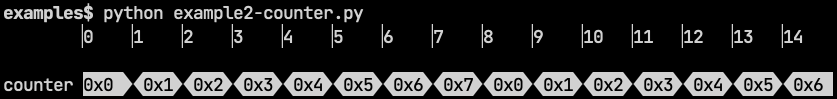
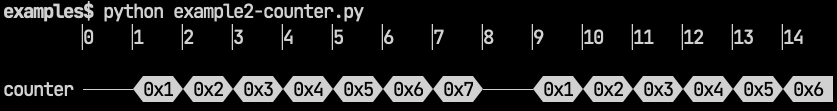
`render_trace`: Display multi-wire zeroes as centered horizontal lines.
Zero is the default value for registers, memories, and conditional assignment,
so it is frequently an uninteresting value. Displaying zero as a centered
horizontal line, rather than '0x0', removes a lot of visual noise from traces.

See the updated screenshots for examples.

diff --git a/pyrtl/simulation.py b/pyrtl/simulation.py
@@ -1072,6 +1072,16 @@ class WaveRenderer(object):
         render transitions.
         """
         if len(w) > 1 or w.name in repr_per_name:
+            # Render values in boxes for multi-bit wires ("bus"), or single-bit
+            # wires with a specific representation.
+            #
+            # We display multi-wire zero values as a centered horizontal line
+            # when a specific `repr_per_name` is not requested for this trace,
+            # and a standard numeric format is requested.
+            flat_zero = (w.name not in repr_per_name
+                         and (repr_func is hex or repr_func is oct
+                              or repr_func is int or repr_func is str
+                              or repr_func is bin))
             if prev_line:
                 # Bus wires are currently never rendered across multiple lines.
                 return ''
@@ -1079,13 +1089,33 @@ class WaveRenderer(object):
             out = ''
             if current_val != prior_val:
                 if prior_val is not None:
-                    out += self.constants._x
-                out += (self.val_to_str(current_val, w.name, repr_func,
-                                        repr_per_name).rstrip('L')
-                        .ljust(symbol_len)[:symbol_len])
+                    if flat_zero and prior_val == 0:
+                        # Value changed from zero to non-zero.
+                        out += self.constants._zero_x
+                    elif flat_zero and current_val == 0:
+                        # Value changed from non-zero to zero.
+                        out += self.constants._x_zero
+                    else:
+                        # Value changed from non-zero to non-zero.
+                        out += self.constants._x
+                if flat_zero and current_val == 0:
+                    # Display the current zero value.
+                    out += self.constants._zero * symbol_len
+                else:
+                    if prior_val is None:
+                        out += self.constants._bus_start
+                    # Display the current non-zero value.
+                    out += (self.val_to_str(current_val, w.name, repr_func,
+                                            repr_per_name).rstrip('L')
+                            .ljust(symbol_len)[:symbol_len])
+            elif flat_zero and current_val == 0:
+                # Extend an unchanged zero value into the current cycle.
+                out += self.constants._zero * cycle_len
             else:
+                # Extend an unchanged non-zero value into the current cycle.
                 out += ' ' * cycle_len
         else:
+            # Render lines for single-bit wires.
             if prev_line:
                 low = self.constants._prev_line_low
                 high = self.constants._prev_line_high
@@ -1147,13 +1177,29 @@ class RendererConstants():
     # rendering a bus wire. _bus_start and _bus_stop must have zero display
     # length characters. Escape codes never count towards display length.
     _bus_start, _bus_stop = '', ''
-    # Print _x when a bus wire changes value. _low must have display length
-    # of _chars_between_cycles characters.
+
+    # Print _x when a bus wire changes from one non-zero value to another
+    # non-zero value. _x must have display length of _chars_between_cycles
+    # characters.
     _x = ''
 
+    # Print _zero_x when a bus wire changes from a zero value to a non-zero
+    # value. _zero_x must have display length of _chars_between_cycles
+    # characters.
+    _zero_x = ''
+
+    # Print _x_zero when a bus wire changes from a non-zero value to a zero
+    # value. _x_zero must have display length of _chars_between_cycles
+    # characters.
+    _x_zero = ''
+
+    # Print _zero when a bus wire maintains a zero value. _zero must have
+    # display length of 1 character.
+    _zero = ''
+
     # Number of characters between cycles. The cycle changes halfway between
-    # this width. The first half of this width belongs to the previous cycle and
-    # the second half of this width belongs to the next cycle.
+    # this width. The first half of this width belongs to the previous cycle
+    # and the second half of this width belongs to the next cycle.
     _chars_between_cycles = 0
 
 
@@ -1169,7 +1215,7 @@ class Utf8RendererConstants(RendererConstants):
     Enable this renderer by default by setting the ``PYRTL_RENDERER``
     environment variable to ``utf-8``.
 
-    .. image:: ../docs/screenshots/pyrtl-statemachine-utf-8.png
+    .. image:: ../docs/screenshots/pyrtl-renderer-demo-utf-8.png
 
     """
     # Start reverse-video, reset all attributes
@@ -1184,6 +1230,9 @@ class Utf8RendererConstants(RendererConstants):
     _prev_line_low, _prev_line_high = ' ', '▁'
 
     _x = '▕ '
+    _zero_x = '─' + _bus_start + '▏'
+    _x_zero = '▕' + _bus_stop + '─'
+    _zero = '─'
 
     # Number of characters needed between cycles. The cycle changes halfway
     # between this width (2), so the first character belongs to the previous
@@ -1198,13 +1247,13 @@ class Utf8AltRendererConstants(RendererConstants):
     falling edges. Multi-bit WireVector values are rendered in reverse-video
     rectangles.
 
-    Compared to Utf8RendererConstants, this renderer is more compact because it
-    uses one character between cycles instead of two.
+    Compared to :py:class:`Utf8RendererConstants`, this renderer is more
+    compact because it uses one character between cycles instead of two.
 
     Enable this renderer by default by setting the ``PYRTL_RENDERER``
     environment variable to ``utf-8-alt``.
 
-    .. image:: ../docs/screenshots/pyrtl-statemachine-utf-8-alt.png
+    .. image:: ../docs/screenshots/pyrtl-renderer-demo-utf-8-alt.png
 
     """
     # Start reverse-video, reset all attributes
@@ -1215,7 +1264,10 @@ class Utf8AltRendererConstants(RendererConstants):
     _up, _down = '╱', '╲'
     _low, _high = '▁', '▔'
 
-    _x = '┃'
+    _x = _bus_stop + ' ' + _bus_start
+    _zero_x = ' ' + _bus_start
+    _x_zero = _bus_stop + ' '
+    _zero = '─'
 
     # Number of characters needed between cycles. The cycle changes halfway
     # between this width (1), so the first character belongs to the previous
@@ -1237,13 +1289,16 @@ class PowerlineRendererConstants(Utf8RendererConstants):
     Enable this renderer by default by setting the ``PYRTL_RENDERER``
     environment variable to ``powerline``.
 
-    .. image:: ../docs/screenshots/pyrtl-statemachine.png
+    .. image:: ../docs/screenshots/pyrtl-renderer-demo-powerline.png
 
     """
     # Start reverse-video, reset all attributes
     _bus_start, _bus_stop = '\x1B[7m', '\x1B[0m'
 
     _x = _bus_stop + '' + _bus_start
+    _zero_x = '─' + _bus_start
+    _x_zero = _bus_stop + '─'
+    _zero = '─'
 
 
 class Cp437RendererConstants(RendererConstants):
@@ -1256,14 +1311,14 @@ class Cp437RendererConstants(RendererConstants):
     `Code page 437 <https://en.wikipedia.org/wiki/Code_page_437>`_ is also
     known as 8-bit ASCII. This is the default renderer on Windows platforms.
 
-    Compared to Utf8RendererConstants, this renderer is more compact because it
-    uses one character between cycles instead of two, but the wire names are
-    vertically aligned at the bottom of each waveform.
+    Compared to :py:class:`Utf8RendererConstants`, this renderer is more
+    compact because it uses one character between cycles instead of two, but
+    the wire names are vertically aligned at the bottom of each waveform.
 
     Enable this renderer by default by setting the ``PYRTL_RENDERER``
     environment variable to ``cp437``.
 
-    .. image:: ../docs/screenshots/pyrtl-statemachine-cp437.png
+    .. image:: ../docs/screenshots/pyrtl-renderer-demo-cp437.png
 
     """
     _tick = '│'
@@ -1275,6 +1330,9 @@ class Cp437RendererConstants(RendererConstants):
     _prev_line_low, _prev_line_high = ' ', '─'
 
     _x = '│'
+    _zero_x = '┤'
+    _x_zero = '├'
+    _zero = '─'
 
     _chars_between_cycles = 1
 
@@ -1289,7 +1347,7 @@ class AsciiRendererConstants(RendererConstants):
     Enable this renderer by default by setting the ``PYRTL_RENDERER``
     environment variable to ``ascii``.
 
-    .. image:: ../docs/screenshots/pyrtl-statemachine-ascii.png
+    .. image:: ../docs/screenshots/pyrtl-renderer-demo-ascii.png
 
     """
     _tick = '|'
@@ -1298,6 +1356,9 @@ class AsciiRendererConstants(RendererConstants):
     _low, _high = '_', '-'
 
     _x = '|'
+    _zero_x = '|'
+    _x_zero = '|'
+    _zero = '-'
 
     _chars_between_cycles = 1
 
@@ -1581,8 +1642,6 @@ class SimulationTrace(object):
             second_trace_line = ''
             prior_val = None
             is_bus = len(self._wires[wire]) > 1
-            if is_bus:
-                second_trace_line += renderer.constants._bus_start
             for i in range(len(trace)):
                 # There is no cycle change before the first cycle or after the
                 # last cycle, so the first and last cycles may have additional

diff --git a/tests/test_simulation.py b/tests/test_simulation.py
@@ -155,7 +155,7 @@ class RenderTraceBase(unittest.TestCase):
             "  \n"
             "a 0x1 |0x4 |0x9 |0xb |0xc \n"
             "  \n"
-            "b 0x2 |0x17|0x2b|0x78|0x0 \n"
+            "b 0x2 |0x17|0x2b|0x78|----\n"
             "  \n"
             "c ____,---------.____,----\n"
         )
@@ -225,7 +225,7 @@ class RenderTraceBase(unittest.TestCase):
         expected = (
             " |0|1|2|3|4|5|6|7|8|9|0|1|2|3|4|5|6|7|8|9\n"
             "  \n"
-            "a 9|8|7|6|5|4|3|2|1|0|9|8|7|6|5|4|3|2|1|0\n"
+            "a 9|8|7|6|5|4|3|2|1|-|9|8|7|6|5|4|3|2|1|-\n"
         )
         self.check_rendered_trace(expected, repr_func=int)
 
@@ -286,9 +286,9 @@ class RenderTraceCustomBase(unittest.TestCase):
         expected = (
             "     |0  |1  |2  |3  |4  \n"
             "      \n"
-            "    i 0x1|0x2|0x4|0x8|0x0\n"
+            "    i 0x1|0x2|0x4|0x8|---\n"
             "      \n"
-            "    o 0x0    |0x1|0x2|0x3\n"
+            "    o -------|0x1|0x2|0x3\n"
             "      \n"
             "state A      |B  |C  |D  \n"
         )

diff --git a/docs/simtest.rst b/docs/simtest.rst
@@ -37,12 +37,11 @@ Wave Renderer
     :special-members: __init__
     :exclude-members: render_ruler_segment, render_val, val_to_str
 .. autofunction:: pyrtl.simulation.enum_name
-.. autoclass:: pyrtl.simulation.RendererConstants
+.. autoclass:: pyrtl.simulation.PowerlineRendererConstants
+    :show-inheritance:
 .. autoclass:: pyrtl.simulation.Utf8RendererConstants
     :show-inheritance:
 .. autoclass:: pyrtl.simulation.Utf8AltRendererConstants
-    :show-inheritance:
-.. autoclass:: pyrtl.simulation.PowerlineRendererConstants
     :show-inheritance:
 .. autoclass:: pyrtl.simulation.Cp437RendererConstants
     :show-inheritance:
